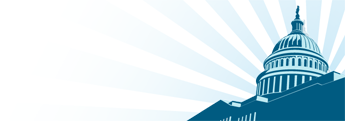
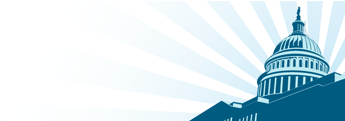
nav styles

diff --git a/public/stylesheets/trifecta.css b/public/stylesheets/trifecta.css
@@ -1,48 +1,44 @@
 /* line 1, ../../app/stylesheets/trifecta.sass */
 html {
-  background: url(/images/left_bg.png) repeat-y top left;
+  background: url(/images/main_bg_left.png) repeat-y top left;
 }
 
 /* line 3, ../../app/stylesheets/trifecta.sass */
 body {
-  background: url(/images/right_bg.png) repeat-y top right;
+  background: url(/images/main_bg_right.png) repeat-y top right;
   min-height: 100%;
   margin-bottom: -150px;
   position: relative;
 }
-/* line 8, ../../app/stylesheets/trifecta.sass */
-body .clearfooter {
-  clear: both;
-  height: 150px;
-}
 
-/* line 11, ../../app/stylesheets/trifecta.sass */
+/* line 8, ../../app/stylesheets/trifecta.sass */
 #wrapper {
   background: url(/images/header_bottomshadow.png) repeat-x left 171px;
 }
 
-/* line 14, ../../app/stylesheets/trifecta.sass */
+/* line 10, ../../app/stylesheets/trifecta.sass */
 #header {
-  background: url(/images/header_bg9.png) repeat-x top left;
+  background: url(/images/header_bg.png) repeat-x top left;
   border-left: 1px solid #27338b;
   border-right: 1px solid #27338b;
   height: 121px;
   position: relative;
   z-index: 9999;
 }
-/* line 21, ../../app/stylesheets/trifecta.sass */
+/* line 17, ../../app/stylesheets/trifecta.sass */
 #header .type {
   background: url(/images/header_type.png) no-repeat top left;
   display: block;
   float: left;
   height: 81px;
+  margin: 30px 0 0 40px;
   width: 367px;
 }
-/* line 27, ../../app/stylesheets/trifecta.sass */
+/* line 24, ../../app/stylesheets/trifecta.sass */
 #header .type h1 {
   margin-left: -9999px;
 }
-/* line 29, ../../app/stylesheets/trifecta.sass */
+/* line 26, ../../app/stylesheets/trifecta.sass */
 #header .capitol {
   background: url(/images/header_capitol.png) no-repeat top left;
   display: block;
@@ -51,8 +47,8 @@ body .clearfooter {
   width: 345px;
 }
 
-/* line 35, ../../app/stylesheets/trifecta.sass */
-.nav {
+/* line 32, ../../app/stylesheets/trifecta.sass */
+#nav {
   background-color: #005b81;
   border-bottom: 10px solid #39505e;
   float: left;
@@ -60,21 +56,23 @@ body .clearfooter {
   padding: 5px 0;
   width: 100%;
 }
-/* line 42, ../../app/stylesheets/trifecta.sass */
-.nav .search {
+/* line 39, ../../app/stylesheets/trifecta.sass */
+#nav .search {
   background: url(/images/search_bg.png) no-repeat top left;
   float: right;
   height: 25px;
+  margin: 3px 0 0 0;
+  padding: 0 10px 0 0;
   width: 220px;
 }
-/* line 47, ../../app/stylesheets/trifecta.sass */
-.nav .search form {
+/* line 46, ../../app/stylesheets/trifecta.sass */
+#nav .search form {
   height: 25px;
   width: 200px;
   margin: 0 20px 0 0;
 }
-/* line 51, ../../app/stylesheets/trifecta.sass */
-.nav .search form input#q {
+/* line 50, ../../app/stylesheets/trifecta.sass */
+#nav .search form input#q {
   border: none;
   display: block;
   float: left;
@@ -83,17 +81,18 @@ body .clearfooter {
   padding: 0;
   width: 175px;
 }
-/* line 59, ../../app/stylesheets/trifecta.sass */
-.nav .search form input {
+/* line 58, ../../app/stylesheets/trifecta.sass */
+#nav .search form input {
   display: none;
 }
-/* line 61, ../../app/stylesheets/trifecta.sass */
-.nav ul {
+/* line 60, ../../app/stylesheets/trifecta.sass */
+#nav ul {
   float: left;
-  margin: 10px 20px 0 0;
+  margin: 5px 0 0 0;
+  padding: 0 0 0 40px;
 }
 /* line 64, ../../app/stylesheets/trifecta.sass */
-.nav ul li {
+#nav ul li {
   color: #797979;
   float: left;
   font: 140% "Lucida Grande", "Trebuchet MS", Verdana, sans-serif;
@@ -101,14 +100,14 @@ body .clearfooter {
   margin-right: 5px;
 }
 /* line 70, ../../app/stylesheets/trifecta.sass */
-.nav ul li a {
-  color: #797979;
+#nav ul li a {
+  color: #fff;
   font: 100% "Lucida Grande", "Trebuchet MS", Verdana, sans-serif;
   text-decoration: none;
   text-transform: uppercase;
 }
 /* line 75, ../../app/stylesheets/trifecta.sass */
-.nav ul li a:hover {
+#nav ul li a:hover {
   color: #344391;
   border-bottom: 3px solid #344391;
 }

diff --git a/app/stylesheets/trifecta.sass b/app/stylesheets/trifecta.sass
@@ -1,18 +1,14 @@
 html
-  :background url(/images/left_bg.png) repeat-y top left 
+  :background url(/images/main_bg_left.png) repeat-y top left 
 body
-  :background url(/images/right_bg.png) repeat-y top right  
+  :background url(/images/main_bg_right.png) repeat-y top right  
   :min-height 100%
   :margin-bottom -150px
   :position relative
-  .clearfooter
-    :clear both
-    :height 150px  
 #wrapper
   :background url(/images/header_bottomshadow.png) repeat-x left 171px
-  
 #header
-  :background url(/images/header_bg9.png) repeat-x top left
+  :background url(/images/header_bg.png) repeat-x top left
   :border-left 1px solid #27338b  
   :border-right 1px solid #27338b
   :height 121px    
@@ -23,6 +19,7 @@ body
     :display block
     :float left
     :height 81px
+    :margin 30px 0 0 40px
     :width 367px    
     h1
       :margin-left -9999px
@@ -32,17 +29,19 @@ body
     :float right
     :height 121px  
     :width 345px
-.nav
+#nav
   :background-color #005b81
   :border-bottom 10px solid #39505e
   :float left
   :height 30px
-  :padding 5px 0
+  :padding 5px 0 
   :width 100%
   .search
     :background url(/images/search_bg.png) no-repeat top left
     :float right
     :height 25px
+    :margin 3px 0 0 0
+    :padding 0 10px 0 0    
     :width 220px
     form
       :height 25px
@@ -60,7 +59,8 @@ body
         :display none
   ul
     :float left
-    :margin 10px 20px 0 0
+    :margin 5px 0 0 0
+    :padding 0 0 0 40px
     li
       :color #797979
       :float left
@@ -68,7 +68,7 @@ body
       :list-style-type none
       :margin-right 5px
       a
-        :color #797979
+        :color #fff
         :font 100% "Lucida Grande", "Trebuchet MS", Verdana, sans-serif
         :text-decoration none
         :text-transform uppercase
